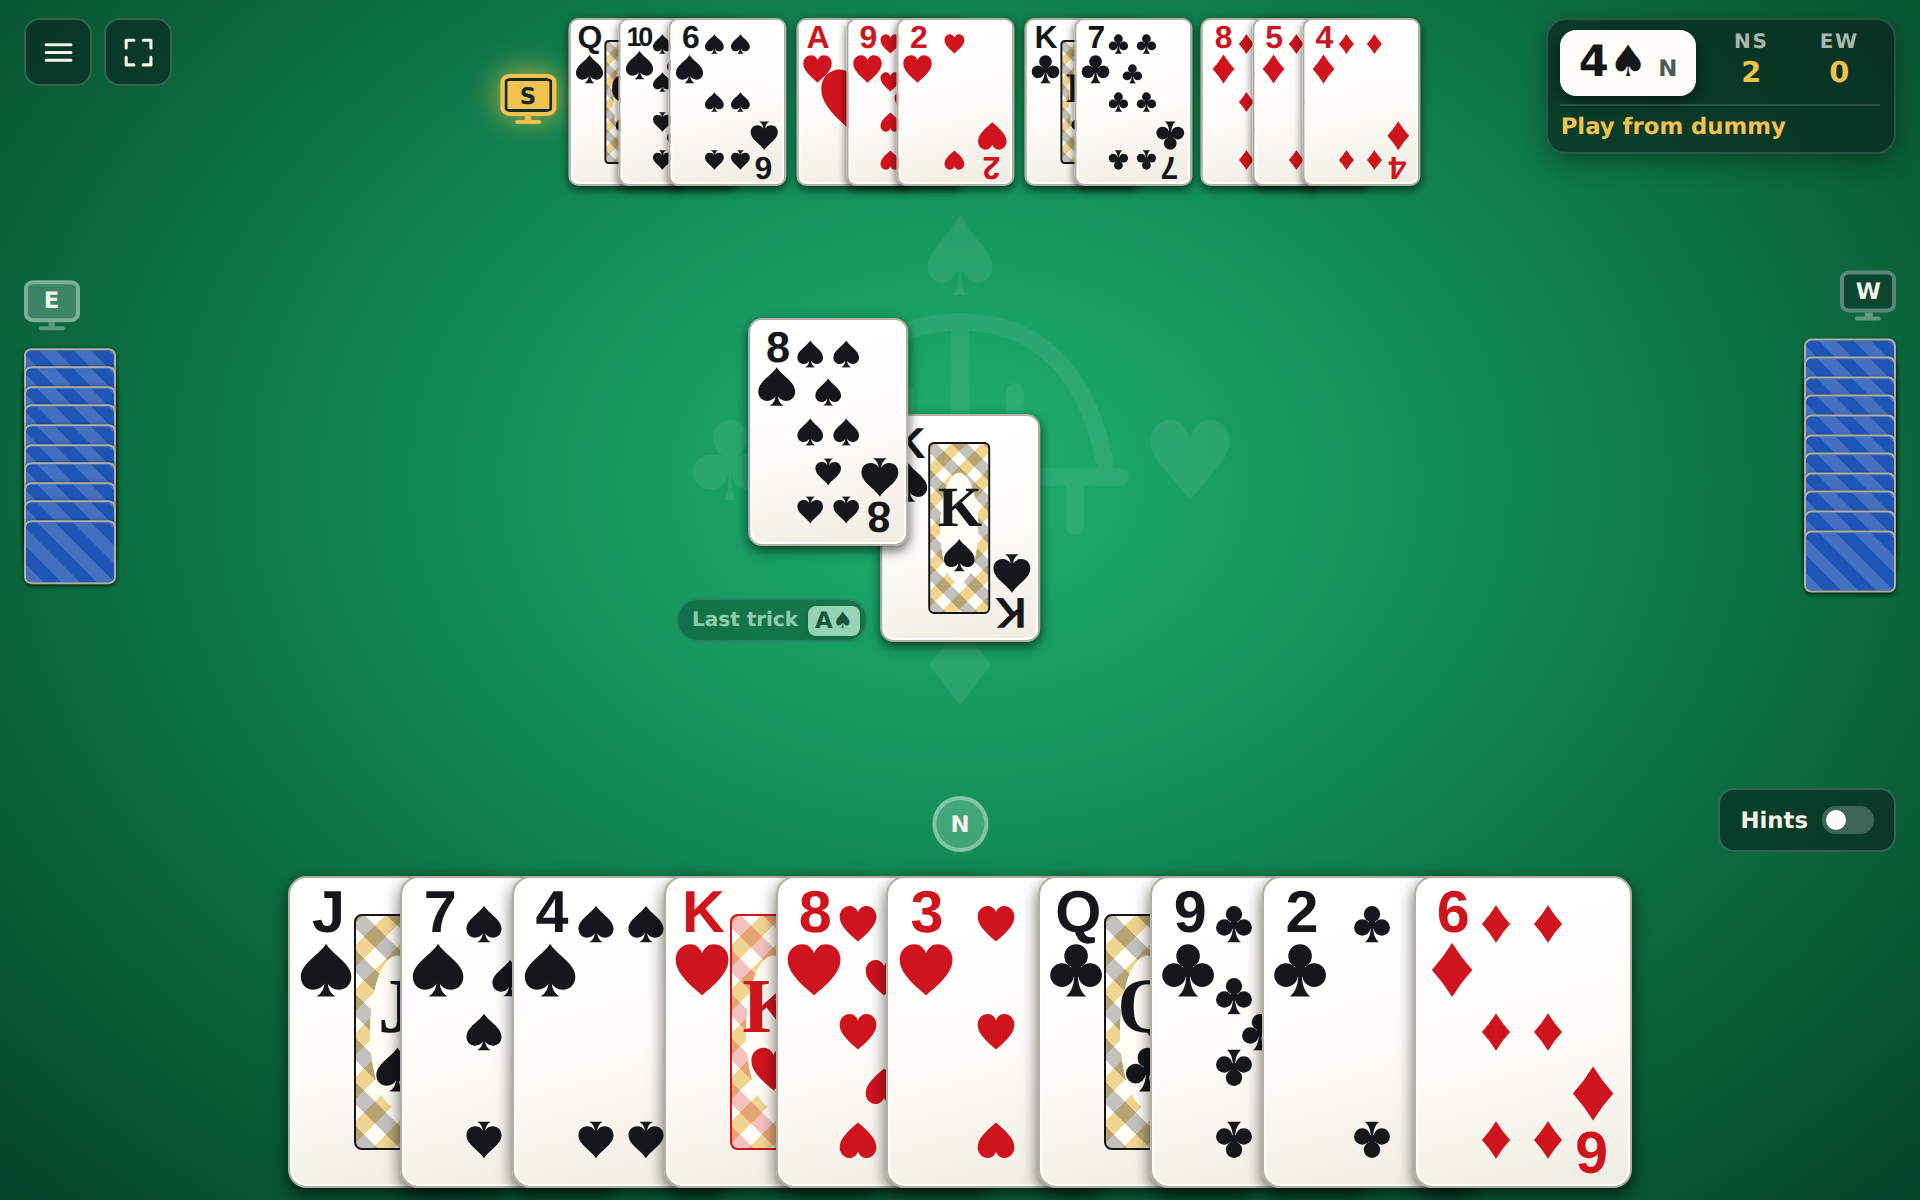
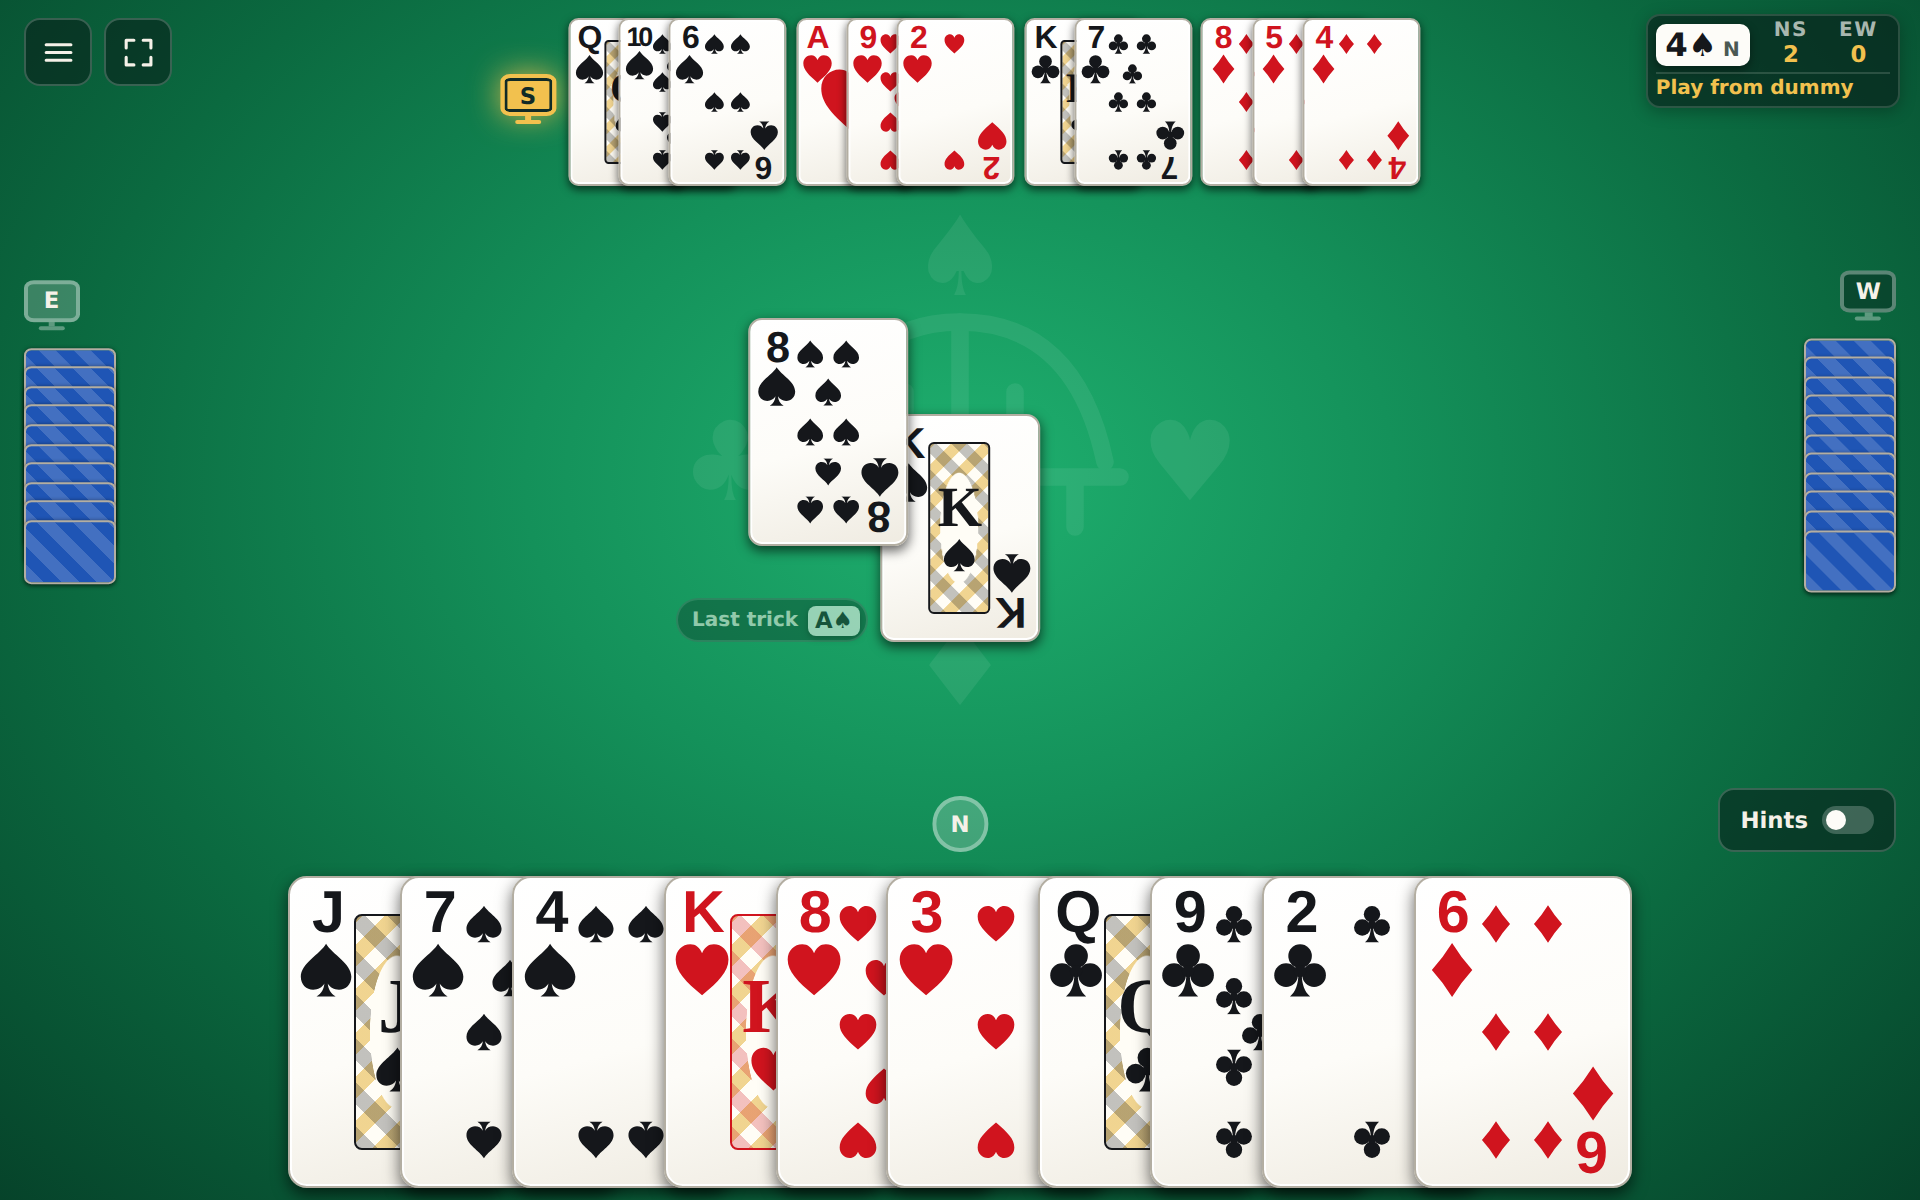
Shrink the status card into a compact HUD

Changed region(s): [[0.7812, 0.0, 1.0, 0.1542]]

diff --git a/apps/client/src/styles.css b/apps/client/src/styles.css
@@ -55,14 +55,14 @@ h2, h3 { font-family: Georgia, serif; font-weight: 500; }
 /* ---------- Corners of the table ---------- */
 .table-status, .table-tools, .history-controls, .hint-controls { position: absolute; z-index: 6; display: flex; gap: var(--u); }
 /* The status card (top right): contract on the left; NS and EW columns with tricks won (gold) over the running score; whose turn underneath. */
-.table-status { top: calc(1.5 * var(--u)); right: calc(2 * var(--u)); display: grid; grid-template-columns: repeat(2, minmax(2.6em, auto)); grid-auto-flow: row; align-items: center; justify-items: center; column-gap: calc(.4 * var(--u)); row-gap: calc(.2 * var(--u)); border: 1px solid var(--line); border-radius: 10px; padding: calc(.9 * var(--u)) calc(1.1 * var(--u)); background: rgba(8, 28, 24, .62); box-shadow: 0 4px 12px #0005; font-variant-numeric: tabular-nums; }
-.table-status.has-contract { grid-template-columns: auto repeat(2, minmax(2.6em, auto)); }
-.table-status .contract-badge { grid-column: 1; align-self: center; margin-right: calc(.8 * var(--u)); }
+.table-status { top: calc(1.2 * var(--u)); right: calc(1.6 * var(--u)); display: grid; grid-template-columns: repeat(2, minmax(2em, auto)); grid-auto-flow: row; align-items: center; justify-items: center; column-gap: calc(.3 * var(--u)); row-gap: 0; border: 1px solid var(--line); border-radius: 7px; padding: calc(.45 * var(--u)) calc(.7 * var(--u)); background: rgba(8, 28, 24, .62); box-shadow: 0 2px 8px #0004; font-variant-numeric: tabular-nums; }
+.table-status.has-contract { grid-template-columns: auto repeat(2, minmax(2em, auto)); }
+.table-status .contract-badge { grid-column: 1; align-self: center; margin-right: calc(.5 * var(--u)); }
 .hud-row { display: contents; }
 .hud-ns { grid-column: -3; }
 .hud-ew { grid-column: -2; }
 .hud-side { color: var(--muted); font-size: var(--text-s); font-weight: 700; letter-spacing: .08em; line-height: 1; }
-.trick-count b { color: var(--gold); font-size: var(--text-l); font-weight: 800; line-height: 1.1; }
+.trick-count b { color: var(--gold); font-size: var(--text-m); font-weight: 800; line-height: 1.15; }
 .match-score span { color: var(--ink); font-size: var(--text-s); font-weight: 600; opacity: .85; }
 /* The tools corner (top left): the game menu and the full-screen button. */
 .table-tools { top: calc(1.5 * var(--u)); left: calc(2 * var(--u)); flex-direction: column; align-items: flex-start; }
@@ -81,14 +81,14 @@ h2, h3 { font-family: Georgia, serif; font-weight: 500; }
 .hint-toggle[aria-checked="true"] .hint-switch { background: var(--gold); }
 .hint-toggle[aria-checked="true"] .hint-switch::after { left: calc(100% - 2px); transform: translateX(-100%); }
 
-.contract-badge { display: flex; align-items: baseline; gap: calc(.9 * var(--u)); border: 0; border-radius: 8px; padding: calc(.7 * var(--u)) calc(1.5 * var(--u)); background: #fdfcf8; color: var(--card-black); box-shadow: 0 3px 8px #0007; font-family: var(--suit-font); cursor: pointer; }
-.contract-badge strong { font-size: max(18px, calc(3.6 * var(--u))); font-weight: 800; line-height: 1.1; }
-.contract-badge > span { font-size: var(--text-m); font-weight: 700; color: #4b5953; }
+.contract-badge { display: flex; align-items: baseline; gap: calc(.5 * var(--u)); border: 0; border-radius: 5px; padding: calc(.25 * var(--u)) calc(.8 * var(--u)); background: #fdfcf8; color: var(--card-black); box-shadow: 0 2px 5px #0006; font-family: var(--suit-font); cursor: pointer; }
+.contract-badge strong { font-size: max(15px, calc(2.7 * var(--u))); font-weight: 800; line-height: 1.1; }
+.contract-badge > span { font-size: var(--text-s); font-weight: 700; color: #4b5953; }
 .contract-badge:disabled { cursor: default; }
 .contract-badge[aria-expanded="true"]:not(:disabled) { box-shadow: 0 0 0 3px var(--gold); }
-.status-pill { grid-column: 1 / -1; justify-self: stretch; color: var(--gold); font-size: var(--text-m); font-weight: 600; text-align: left; }
+.status-pill { grid-column: 1 / -1; justify-self: stretch; color: var(--gold); font-size: var(--text-s); font-weight: 600; text-align: left; }
 .board-label { grid-column: 1 / -1; justify-self: stretch; color: var(--muted); font-size: var(--text-s); text-align: left; }
-.table-status:is(.has-contract, :has(.hud-side)) .status-pill { margin-top: calc(.5 * var(--u)); border-top: 1px solid var(--line); padding-top: calc(.6 * var(--u)); }
+.table-status:is(.has-contract, :has(.hud-side)) .status-pill { margin-top: calc(.35 * var(--u)); border-top: 1px solid var(--line); padding-top: calc(.3 * var(--u)); }
 
 /* The last trick is a small badge with the card that won it; a click lays the whole trick out on the table, another clears it.
    It lies beside the winner's place in the trick, as a won trick is gathered in front of its winner: beside the top or

diff --git a/CHANGES.md b/CHANGES.md
@@ -2,6 +2,7 @@
 
 ## Unreleased
 
+- **A smaller status card.** The contract, NS/EW trick counter, score, and whose-turn line in the top-right corner now sit in a tighter card with less padding, a smaller contract badge, and smaller text, so it takes up less of the table at solo and online tables. README screenshots refreshed.
 - **What ContractPlay is for, on the sign-in screen.** Under the email sign-in form, a short panel now says what ContractPlay is built for, following your game over time, and what makes it different: replaying real deals and comparing your result in IMPs, scoring board sets against the field with matchpoints and the double-dummy par, keeping every finished hand on your account across devices, and practising with bots at four skill levels with hints that explain calls.
 - **The auction stays on the table after the hand.** When a hand ends and every hand is face-up with its high-card points, each seat now keeps its calls in order beside its hand, so you can review the bidding alongside the cards and the score, at solo and online tables. At East and West the calls sit on their own row under the seat name, the width of the hand, so they stay clear of the result panel. Click a call there for its meaning, as during the auction.
 - **Call meanings without Hints.** Clicking any call at a seat now explains what it means at solo and online tables even with Hints switched off; Hints still adds your high-card points and the suggested call or card.
